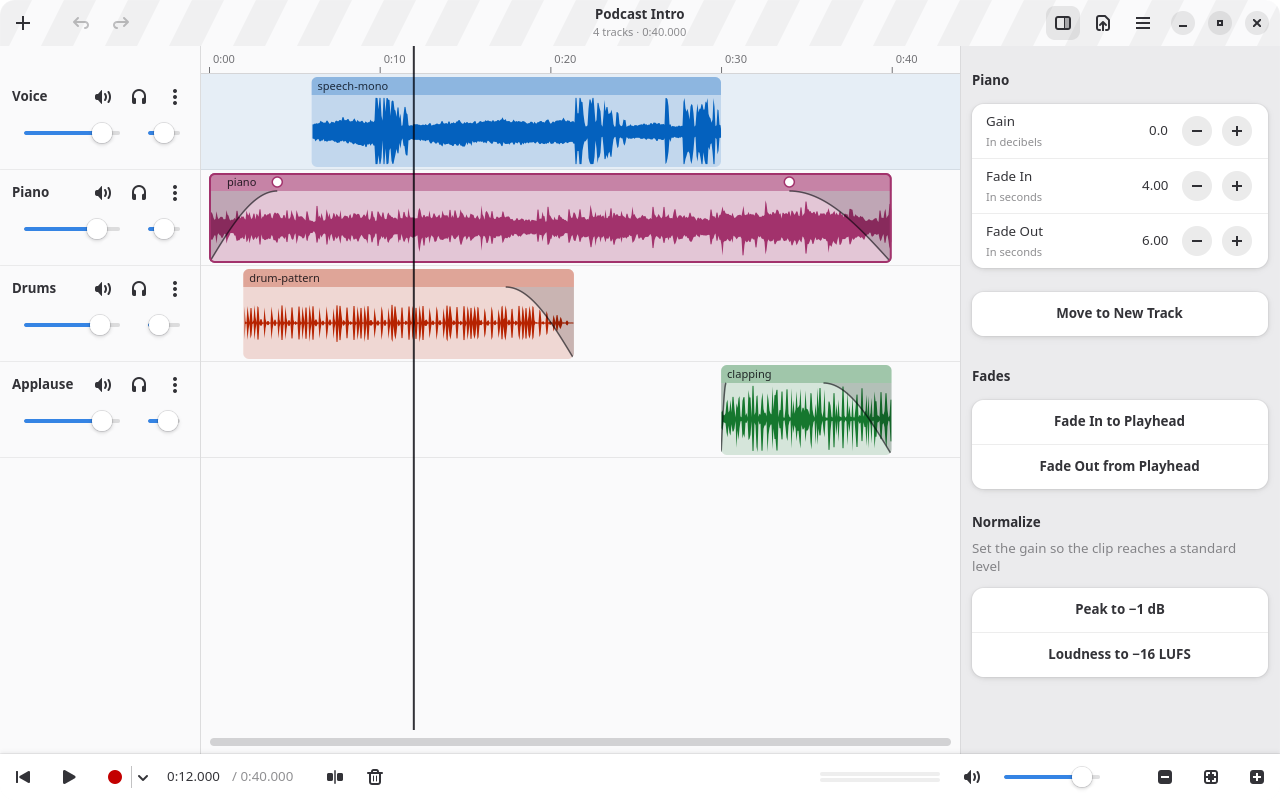
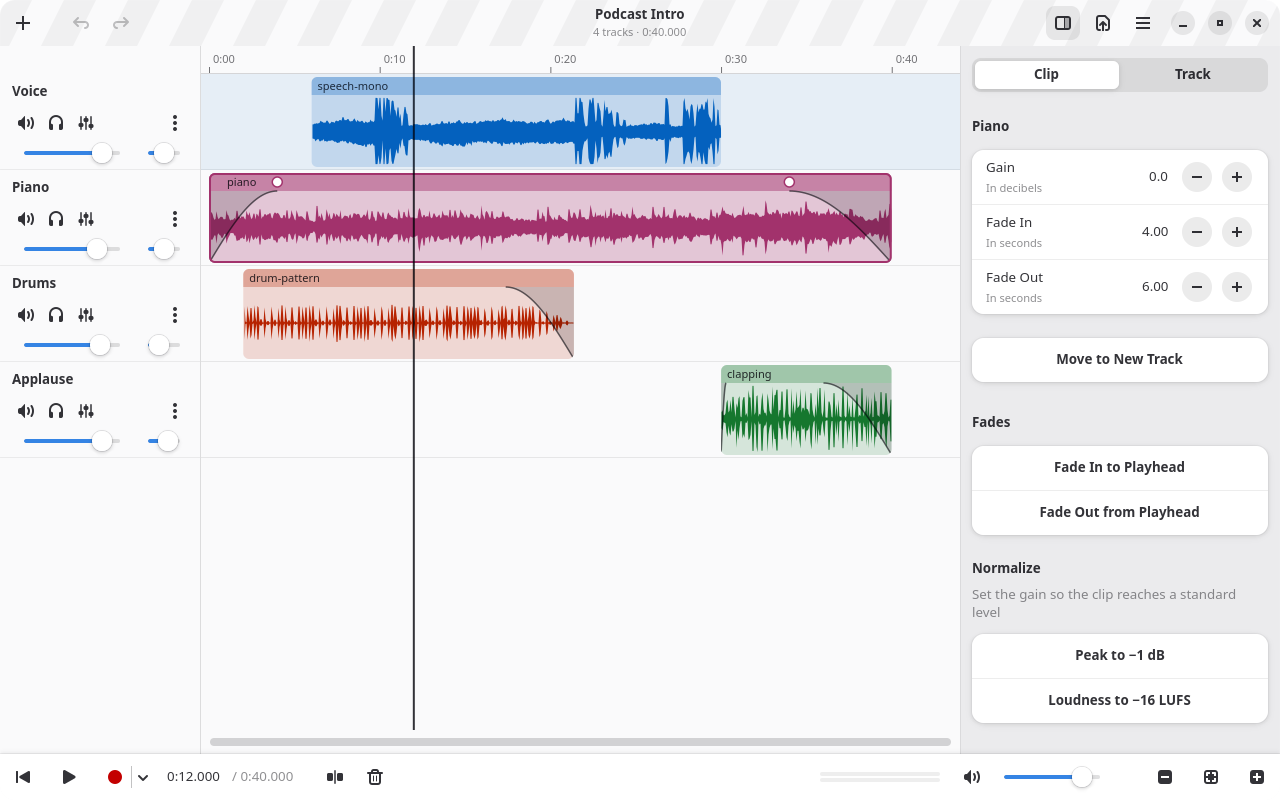
docs: retake screenshots, dark screenshot in the README for dark mode
The screenshots show the new track header and the Clip/Track tabs. The
README picks the dark screenshot for readers using a dark style, and its
status line says 0.3.

diff --git a/README.md b/README.md
@@ -17,10 +17,13 @@ Put audio files on tracks, trim and arrange them, record over them, balance
 their volume, and export the mix. Built with Rust, GTK 4, Libadwaita and
 GStreamer.
 
-![Transient with four coloured tracks: a voice clip selected, a pink piano bed
-and orange drums with fades, and green applause at the end](data/screenshots/main-window.png)
+<!-- GitHub shows the dark screenshot to readers who use a dark style. -->
+<picture>
+  <source media="(prefers-color-scheme: dark)" srcset="data/screenshots/main-window-dark.png">
+  <img src="data/screenshots/main-window.png" alt="Transient with four coloured tracks: a voice clip selected, a pink piano bed and orange drums with fades, and green applause at the end">
+</picture>
 
-> **Status:** early development (0.2). You can import or record audio,
+> **Status:** early development (0.3). You can import or record audio,
 > arrange, trim and cut it on tracks, give tracks a colour, add fades, mix the
 > tracks and export the result; see [`ROADMAP.md`](ROADMAP.md) for what comes next.
 
